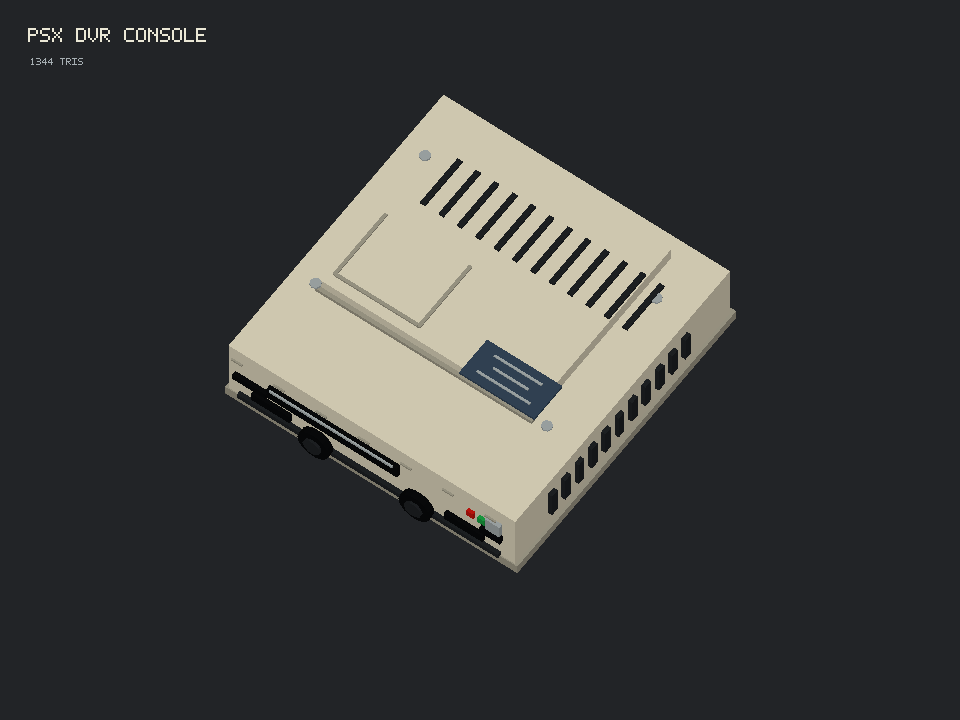
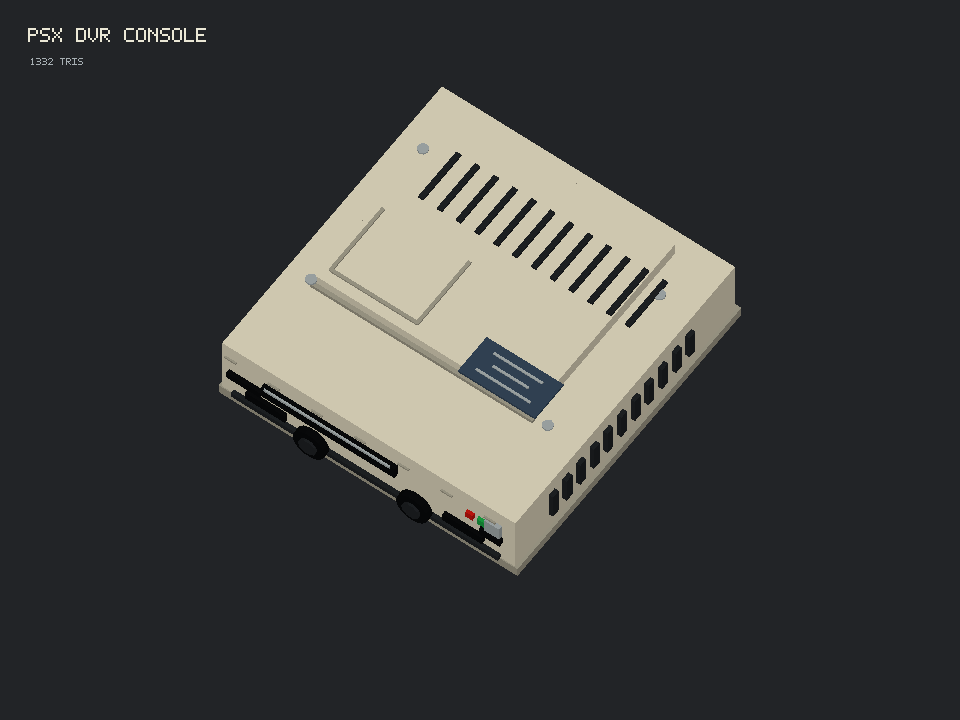
fix: merge psx dvr assets into two objects

diff --git a/tools/create_psx_dvr_assets.py b/tools/create_psx_dvr_assets.py
@@ -98,8 +98,12 @@ class Asset:
     notes: list[str] = field(default_factory=list)
 
     @property
+    def export_primitives(self) -> list[Primitive]:
+        return [primitive for primitive in self.primitives if not primitive.name.startswith("col_")]
+
+    @property
     def triangle_count(self) -> int:
-        return sum(primitive.triangle_count for primitive in self.primitives)
+        return sum(primitive.triangle_count for primitive in self.export_primitives)
 
     @property
     def material_count(self) -> int:
@@ -520,7 +524,7 @@ def build_console_asset() -> Asset:
         texture_size=(256, 256),
         texture_pixels=build_console_texture(),
         materials=console_materials(),
-        notes=["Source .blend omitted because Blender executable was not available; generator script is source of truth."],
+        notes=["Generated as one GLB mesh/node for clean Blender import; source geometry is reproducible from tools/create_psx_dvr_assets.py."],
     )
     b = MeshBuilder(asset)
     b.add_box("console_main_body", (0.0, 0.0, 0.42), (3.12, 3.22, 0.78), 0)
@@ -561,7 +565,6 @@ def build_console_asset() -> Asset:
         b.add_cylinder_z(f"console_top_screw_{idx}", (x, y, 0.973), 0.055, 0.018, 8, 6)
     for idx, x in enumerate([-1.42, -0.96, -0.50, -0.04, 0.42, 0.88, 1.34]):
         b.add_box(f"console_front_pixel_scuff_{idx}", (x, -1.682, 0.755), (0.12, 0.018, 0.018), 1)
-    b.add_box("col_psx_dvr_console_box", (0.0, 0.0, 0.43), (3.18, 3.28, 0.90), 8)
     return asset
 
 
@@ -572,7 +575,7 @@ def build_disc_asset() -> Asset:
         texture_size=(128, 128),
         texture_pixels=build_disc_texture(),
         materials=disc_materials(),
-        notes=["Source .blend omitted because Blender executable was not available; generator script is source of truth."],
+        notes=["Generated as one GLB mesh/node for clean Blender import; source geometry is reproducible from tools/create_psx_dvr_assets.py."],
     )
     b = MeshBuilder(asset)
     b.add_cylinder_z("disc_outer_silver_ring", (0.0, 0.0, 0.035), 0.48, 0.055, 24, 0, hole_radius=0.075)
@@ -582,7 +585,6 @@ def build_disc_asset() -> Asset:
         x = math.cos(angle) * 0.25
         y = math.sin(angle) * 0.25
         b.add_box(f"disc_pixel_label_tick_{idx}", (x, y, 0.095), (0.11, 0.018, 0.01), 1)
-    b.add_cylinder_z("col_psx_dvr_disc_cylinder", (0.0, 0.0, 0.035), 0.50, 0.07, 12, 4, hole_radius=0.065)
     return asset
 
 
@@ -657,9 +659,8 @@ class GlbWriter:
         return len(self.accessors) - 1
 
     def build(self) -> bytes:
-        meshes = []
-        nodes = []
-        for primitive in self.asset.primitives:
+        mesh_primitives = []
+        for primitive in self.asset.export_primitives:
             mins, maxs = min_max_vec3(primitive.positions)
             position_accessor = self.add_accessor(
                 pack_floats(flatten_vec3(primitive.positions)),
@@ -698,24 +699,23 @@ class GlbWriter:
                 "SCALAR",
                 34963,
             )
-            mesh = {
-                "name": primitive.name,
-                "primitives": [
-                    {
-                        "attributes": {
-                            "POSITION": position_accessor,
-                            "NORMAL": normal_accessor,
-                            "TEXCOORD_0": uv_accessor,
-                            "COLOR_0": color_accessor,
-                        },
-                        "indices": index_accessor,
-                        "material": primitive.material_index,
-                        "mode": 4,
-                    }
-                ],
-            }
-            meshes.append(mesh)
-            nodes.append({"name": primitive.name, "mesh": len(meshes) - 1})
+            mesh_primitives.append(
+                {
+                    "attributes": {
+                        "POSITION": position_accessor,
+                        "NORMAL": normal_accessor,
+                        "TEXCOORD_0": uv_accessor,
+                        "COLOR_0": color_accessor,
+                    },
+                    "indices": index_accessor,
+                    "material": primitive.material_index,
+                    "mode": 4,
+                    "extras": {"source_part": primitive.name},
+                }
+            )
+
+        meshes = [{"name": self.asset.name, "primitives": mesh_primitives}]
+        nodes = [{"name": self.asset.name, "mesh": 0}]
 
         image_view = self.append_blob(self.image_bytes)
         materials = []
@@ -740,7 +740,7 @@ class GlbWriter:
                 "copyright": "Logo-free original asset generated for X. WHEEL",
             },
             "scene": 0,
-            "scenes": [{"name": self.asset.name, "nodes": list(range(len(nodes)))}],
+            "scenes": [{"name": self.asset.name, "nodes": [0]}],
             "nodes": nodes,
             "meshes": meshes,
             "materials": materials,
@@ -876,7 +876,7 @@ def generate_assets() -> list[Asset]:
     assets = [build_console_asset(), build_disc_asset()]
     manifest = {
         "generator": "tools/create_psx_dvr_assets.py",
-        "source_note": "Blender is not available in this environment, so this reproducible script is the source asset file.",
+        "source_note": "GLB geometry is generated reproducibly by script, then imported into assets/3d/psx_dvr_assets.blend as two Blender assets.",
         "assets": {},
     }
     for asset in assets:
@@ -890,7 +890,8 @@ def generate_assets() -> list[Asset]:
             "triangles": asset.triangle_count,
             "materials": asset.material_count,
             "texture_size": list(asset.texture_size),
-            "objects": [primitive.name for primitive in asset.primitives],
+            "objects": [asset.name],
+            "source_parts": [primitive.name for primitive in asset.export_primitives],
             "notes": asset.notes,
         }
         print(f"{asset.name}: {asset.triangle_count} triangles, {asset.material_count} materials")

diff --git a/tools/verify_psx_dvr_single_assets.py b/tools/verify_psx_dvr_single_assets.py
@@ -1,0 +1,49 @@
+"""Verify PSX DVR exports are two usable assets, not many loose parts."""
+
+from __future__ import annotations
+
+import json
+import struct
+from pathlib import Path
+
+
+ROOT = Path(__file__).resolve().parents[1]
+ASSET_ROOT = ROOT / "assets" / "3d"
+
+
+def read_glb_json(path: Path) -> dict:
+    data = path.read_bytes()
+    if data[:4] != b"glTF":
+        raise AssertionError(f"{path}: invalid GLB magic")
+    json_length, json_type = struct.unpack_from("<I4s", data, 12)
+    if json_type != b"JSON":
+        raise AssertionError(f"{path}: missing JSON chunk")
+    return json.loads(data[20 : 20 + json_length].decode("utf-8"))
+
+
+def assert_single_asset(path: Path, expected_name: str) -> None:
+    document = read_glb_json(path)
+    meshes = document.get("meshes", [])
+    nodes = document.get("nodes", [])
+    scenes = document.get("scenes", [])
+
+    if len(meshes) != 1:
+        raise AssertionError(f"{expected_name}: expected 1 mesh, got {len(meshes)}")
+    if len(nodes) != 1:
+        raise AssertionError(f"{expected_name}: expected 1 node, got {len(nodes)}")
+    if meshes[0].get("name") != expected_name:
+        raise AssertionError(f"{expected_name}: mesh name mismatch: {meshes[0].get('name')}")
+    if nodes[0].get("name") != expected_name:
+        raise AssertionError(f"{expected_name}: node name mismatch: {nodes[0].get('name')}")
+    if scenes and scenes[0].get("nodes") != [0]:
+        raise AssertionError(f"{expected_name}: scene should reference only node 0")
+
+
+def main() -> None:
+    assert_single_asset(ASSET_ROOT / "psx_dvr_console" / "psx_dvr_console.glb", "psx_dvr_console")
+    assert_single_asset(ASSET_ROOT / "psx_dvr_disc" / "psx_dvr_disc.glb", "psx_dvr_disc")
+    print("single asset GLB verification passed")
+
+
+if __name__ == "__main__":
+    main()

diff --git a/tools/blender_mcp/install_and_import_psx_dvr_assets.py b/tools/blender_mcp/install_and_import_psx_dvr_assets.py
@@ -49,6 +49,9 @@ def import_glb(filepath: Path, collection_name: str, x_offset: float) -> list[bp
     before = set(bpy.data.objects)
     bpy.ops.import_scene.gltf(filepath=str(filepath))
     imported = [obj for obj in bpy.data.objects if obj not in before]
+    mesh_imports = [obj for obj in imported if obj.type == "MESH"]
+    if len(mesh_imports) != 1:
+        raise RuntimeError(f"{collection_name}: expected 1 mesh object from GLB, got {len(mesh_imports)}")
 
     for obj in imported:
         for linked_collection in list(obj.users_collection):
@@ -59,8 +62,9 @@ def import_glb(filepath: Path, collection_name: str, x_offset: float) -> list[bp
         obj.asset_data.description = f"Low-poly PSX DVR asset: {collection_name}"
 
         if obj.type == "MESH":
+            obj.name = collection_name
             obj.data.asset_mark()
-            obj.data.name = f"{collection_name}_{obj.data.name}"
+            obj.data.name = f"{collection_name}_mesh"
             for polygon in obj.data.polygons:
                 polygon.use_smooth = False
 

diff --git a/docs/superpowers/specs/2026-05-27-psx-dvr-assets-design.md b/docs/superpowers/specs/2026-05-27-psx-dvr-assets-design.md
@@ -53,13 +53,17 @@ The disc uses a simplified DVD/game-disc form: low-sided circular mesh, center h
 - `assets/3d/psx_dvr_disc/psx_dvr_disc_texture.png`
 - `assets/3d/psx_dvr_disc/psx_dvr_disc_preview.png`
 - `assets/3d/psx_dvr_assets_manifest.json`
+- `assets/3d/psx_dvr_assets.blend`
+- `assets/3d/psx_dvr_blender_import_report.json`
 - `tools/create_psx_dvr_assets.py`
+- `tools/verify_psx_dvr_single_assets.py`
 
-Blender is not available in this environment, so no `.blend` files are produced. The reproducible Python generator is the source asset file.
+Each exported GLB must import into Blender as exactly one mesh object. The generated `.blend` scene must therefore contain exactly two mesh objects: `psx_dvr_console` and `psx_dvr_disc`.
 
 ## Verification
 
 - Validate exported GLB files with the generator's `--verify` mode.
+- Validate single-asset structure with `tools/verify_psx_dvr_single_assets.py`.
 - Confirm object origins are centered and transforms are applied.
 - Confirm each asset is separate and has stable ASCII object/material names.
 - Record triangle counts, material counts, and texture sizes.

diff --git a/docs/superpowers/plans/2026-05-27-psx-dvr-assets.md b/docs/superpowers/plans/2026-05-27-psx-dvr-assets.md
@@ -4,7 +4,7 @@
 
 **Goal:** Build two logo-free PSX DVR-inspired low-poly GLB assets: a console and a matching optical disc.
 
-**Architecture:** A single reproducible Python generator creates all geometry, materials, textures, GLB files, preview PNGs, and a manifest. Because Blender is not available in this environment, the source-of-truth file is the generator script rather than a `.blend` file.
+**Architecture:** A single reproducible Python generator creates all geometry, materials, textures, GLB files, preview PNGs, and a manifest. Blender then imports the generated GLBs into a `.blend` scene containing exactly two mesh assets.
 
 **Tech Stack:** Python 3 standard library only, glTF 2.0 binary `.glb`, hand-authored PNG textures via `zlib`, simple orthographic software preview renderer.
 